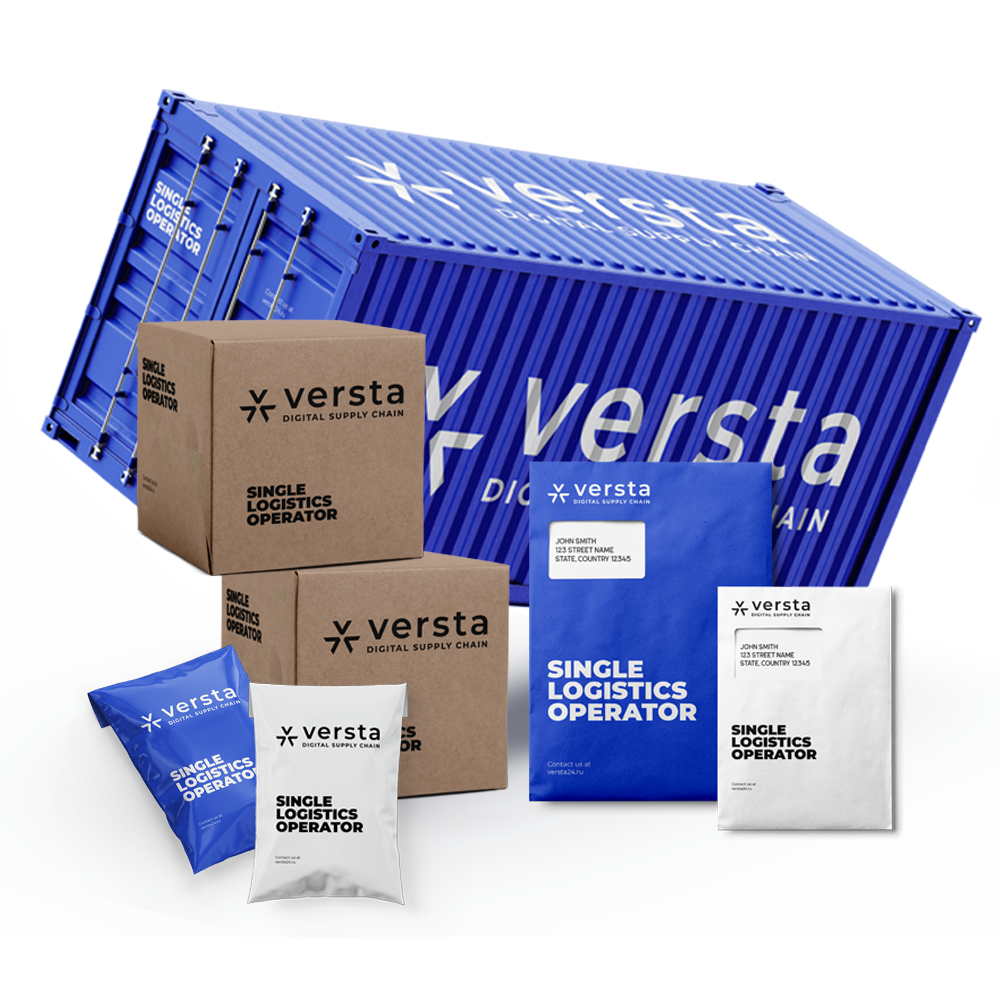
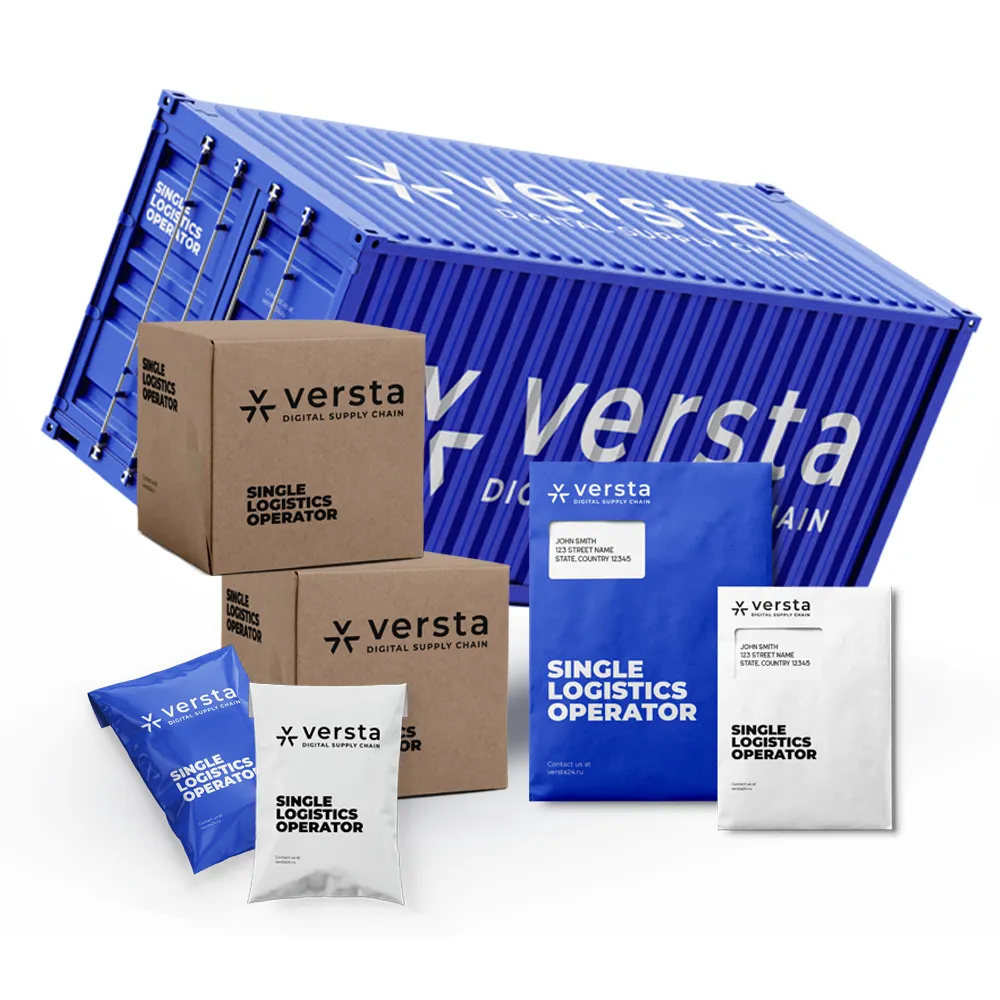
Use provided WebP covers for all case cards

diff --git a/src/content/cases.ts b/src/content/cases.ts
@@ -583,7 +583,7 @@ export const CASES: CaseStudy[] = [
     role: "Документооборот",
     gradientClassName:
       "md:bg-[image:linear-gradient(68.54deg,#C5F8E5_0.95%,#DCF9FF_50.8%,#E4F5FF_101.64%)]",
-    photo: { desktop: "/img/cases/directum-wide.png" },
+    photo: { desktop: "/img/cases/directum-wide.webp" },
     story: DIRECTUM_STORY,
   },
   {
@@ -607,7 +607,7 @@ export const CASES: CaseStudy[] = [
     role: "Клиентский сервис",
     gradientClassName:
       "md:bg-[image:linear-gradient(68.54deg,#C5F8E5_0.95%,#DCF9FF_50.8%,#E4F5FF_101.64%)]",
-    photo: { desktop: "/img/cases/bi-group-wide.jpg" },
+    photo: { desktop: "/img/cases/bi-group-wide.webp" },
     story: BI_GROUP_STORY,
   },
   {
